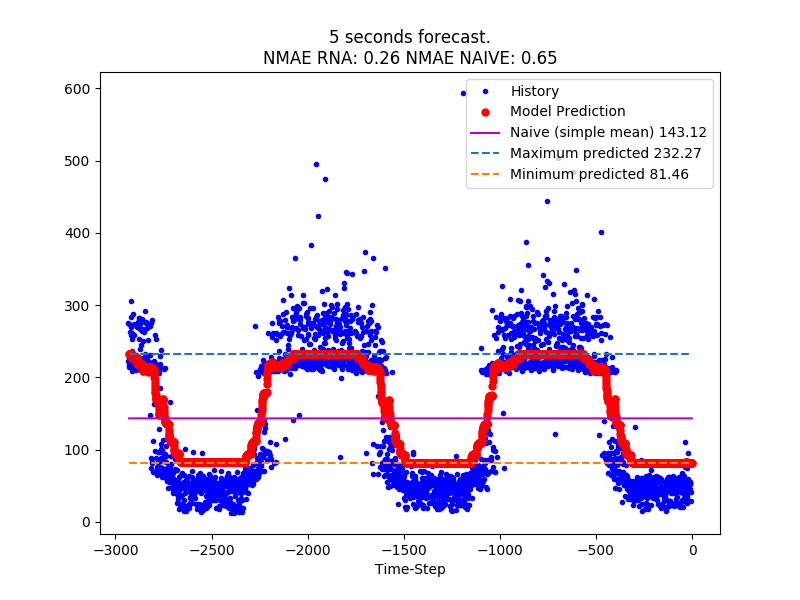
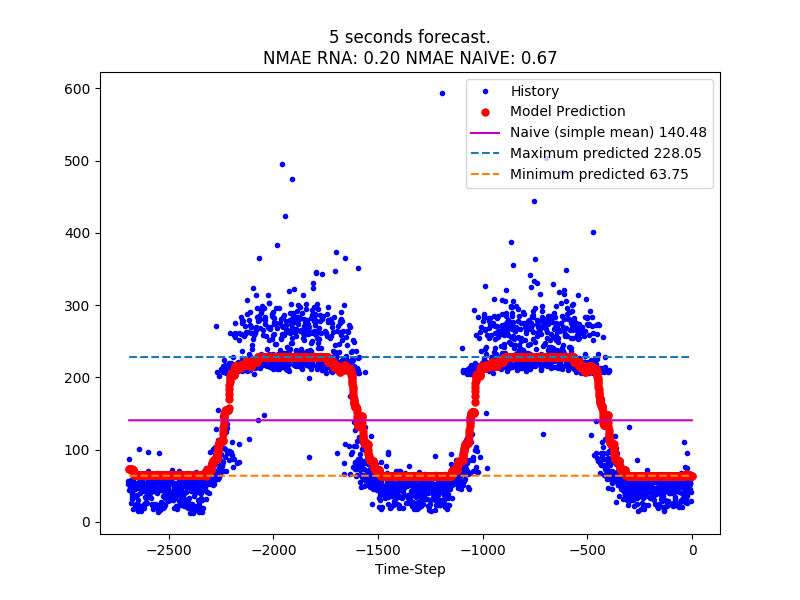
checking model creation with new loss function mape

diff --git a/SRO/necos_forecast.py b/SRO/necos_forecast.py
@@ -178,7 +178,7 @@ class NeuralNetworkModel():
     y_predictions_naive = self.y_val_single.mean()
     nmae_rna = self.nmae(y_predictions, self.y_val_single)
     nmae_naive = self.nmae(y_predictions_naive, self.y_val_single)
-    print("Steps: {}, NMAE RNA {}, NMAE naive: {}".format(self.steps_in_future, nmae_rna, nmae_naive))
+    print("Steps: {}, NMAE RNA: {}, NMAE naive: {}, MAPE: RNA {}, MAPE: naive {}".format(self.steps_in_future, nmae_rna, nmae_naive))
     plt.clf()
     #plt.figure(dpi=1200)
     self.show_plot([self.y_val_single, y_predictions, y_predictions_naive], self.steps_in_future, '{} seconds forecast.\nNMAE RNA: {:.2f} NMAE NAIVE: {:.2f}'.format(self.steps_in_future, nmae_rna, nmae_naive))
@@ -209,6 +209,9 @@ class NeuralNetworkModel():
 
   def nmae(self, predicted, real):
     return (np.absolute(predicted - real).mean())/real.mean()
+
+  def mape(self, predicted, real):
+    return 100* (np.absolute(predicted - real)/ real)
 
 if __name__ == "__main__":
   directories = ['slices_files/slice_1/flavor_1', 'slices_files/slice_1/flavor_2']
